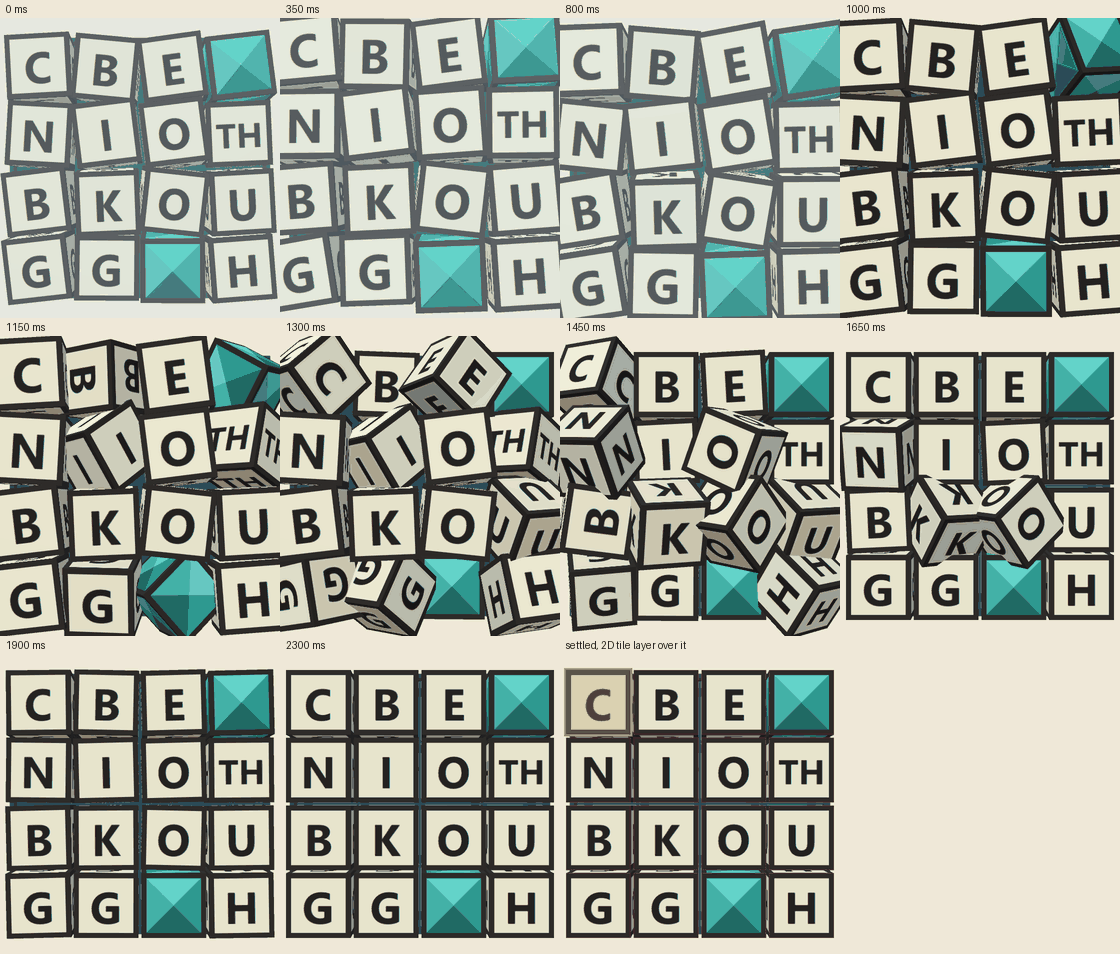
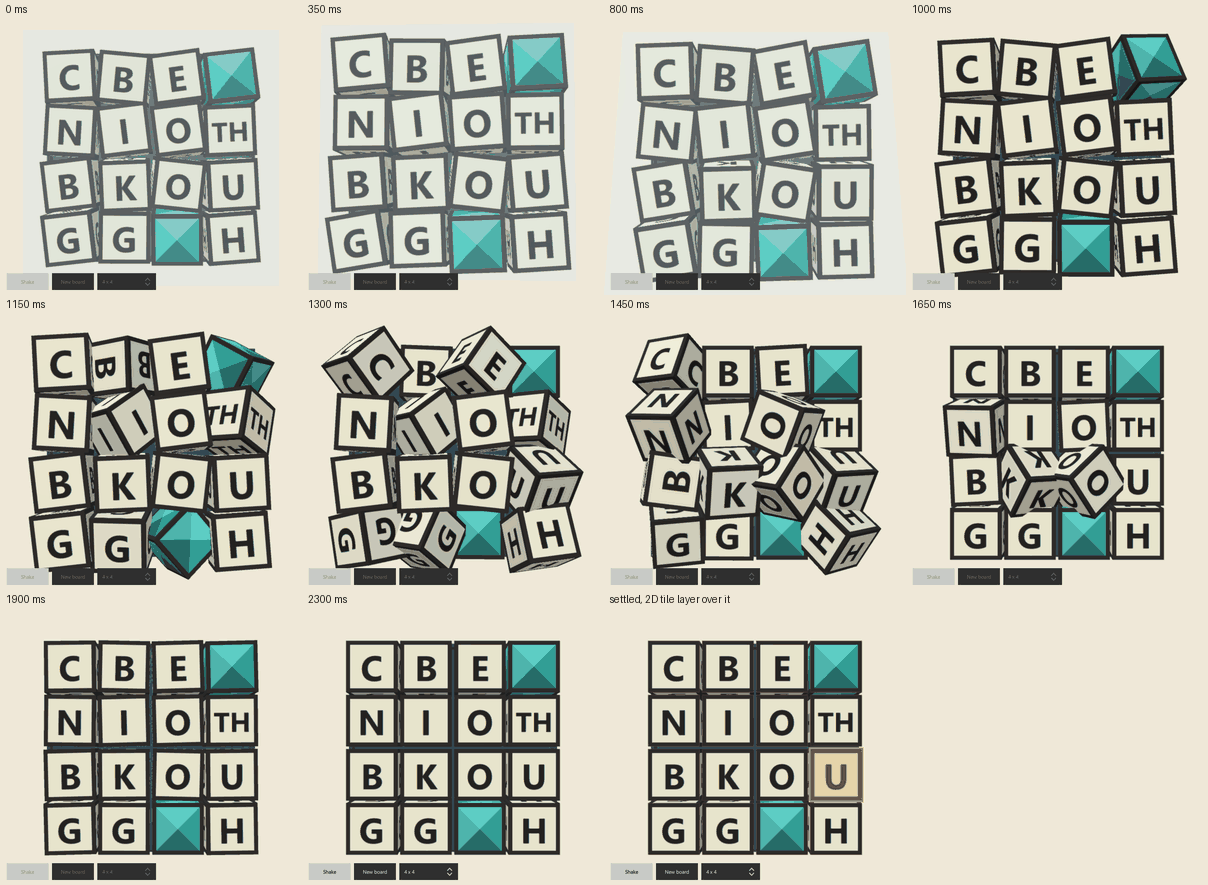
Let the board scene draw past its item, and save every frame for a video
The scene's item stays the board's area and boardRect stays by the rule, but
the view now extends half a tile past it on every side (overdraw), so a die
that tumbles at the edge and the tipping rim are no longer cut off. The
harness leaves room above the scene for it.

--frames <fps>, with --auto --shots, saves a frame of the seeked script every
1/fps s for 2.4 s, which ffmpeg turns into a video. The stills in the page are
retaken at 720 wide so the overdraw is in them, and the page records the
change to the seam and a run-to-run difference in the machine's present
cadence that is not the scene's.

diff --git a/src/app/prototype/shake/qml/BoardScene.qml b/src/app/prototype/shake/qml/BoardScene.qml
@@ -14,7 +14,8 @@ import "ShakeScript.js" as Script
 //
 //   in    play(board, seed), show(board), reducedMotion, agitation, tilt
 //   out   settled(), landed(index, pitch), rattled(), busy, and the geometry the
-//         2D layer over it lays out by: boardRect, tileSize, tileGap
+//         2D layer over it lays out by: boardRect, tileSize, tileGap, and how
+//         far past its item the scene draws: overdraw
 //
 // board is { rows, columns, tiles }, tiles row-major, one string a tile.
 //
@@ -58,6 +59,11 @@ Item {
     readonly property real tileSize: tile
     readonly property real tileGap: gap
     readonly property rect boardRect: Qt.rect((width - spanX) / 2, (height - spanY) / 2, spanX, spanY)
+    // How far past this item's edges the scene draws, on every side: a die that
+    // tumbles at the edge of the board, and the box's rim as it tips, are not
+    // cut off. The item is still the board's area and boardRect is still by the
+    // rule; the application only has to leave the item unclipped (no `clip`).
+    readonly property real overdraw: tile * 0.5
 
     // Plays the shake, the lid and the drop for a board. The dice are in the
     // box before the first frame, and `settled` follows the last of them.
@@ -268,17 +274,21 @@ Item {
     }
 
     // The distance at which, upright, one scene unit is one pixel on the top
-    // of the dice, and the field of view that gives. While the camera leans it
-    // also stands a little back (and comes in as it comes upright), so a board
-    // that fills its square upright is not cut off by the lean.
+    // of the dice, and the field of view that gives, for the view, which is the
+    // item and its overdraw. While the camera leans it also stands a little back
+    // (and comes in as it comes upright), so a board that fills its square
+    // upright is not cut off by the lean.
     readonly property real viewDistance: cameraDistance * Math.max(spanX, spanY)
-    readonly property real fieldOfView: 2 * Math.atan(height / 2 / viewDistance) * 180 / Math.PI
+    readonly property real fieldOfView: 2 * Math.atan((height + 2 * overdraw) / 2 / viewDistance) * 180 / Math.PI
     readonly property real standBack: 1 + 0.3 * (lean > 0 ? Math.min(1, leanNow / lean) : 0)
 
     View3D {
         id: view
 
-        anchors.fill: parent
+        x: -root.overdraw
+        y: -root.overdraw
+        width: root.width + 2 * root.overdraw
+        height: root.height + 2 * root.overdraw
         camera: camera
 
         environment: SceneEnvironment {

diff --git a/src/app/prototype/shake/qml/ShakeWindow.qml b/src/app/prototype/shake/qml/ShakeWindow.qml
@@ -16,6 +16,7 @@ ApplicationWindow {
     required property bool shotsOnly
     required property bool digestOnly
     required property int startBoard
+    required property int framesPerSecond
     required property string outDir
     required property string probeMode
     required property real leanDegrees
@@ -199,7 +200,9 @@ ApplicationWindow {
         anchors.left: parent.left
         anchors.right: parent.right
         anchors.top: parent.top
-        height: parent.height * 2 / 3
+        // The scene draws past its item by its overdraw; leave room above it.
+        anchors.topMargin: window.scene ? window.scene.overdraw : 0
+        height: parent.height * 2 / 3 - anchors.topMargin
 
         DragHandler {
             id: drag
@@ -524,7 +527,18 @@ ApplicationWindow {
     // Screenshots through one play, taken by seeking the script to fixed
     // times, so they are the same on every run and show the stages where they
     // are: the rattle, the lid, the drop in flight, the settle.
-    readonly property var shotTimes: [0, 350, 800, 1000, 1150, 1300, 1450, 1650, 1900, 2300]
+    readonly property var shotTimes: {
+        if (framesPerSecond <= 0) {
+            return [0, 350, 800, 1000, 1150, 1300, 1450, 1650, 1900, 2300];
+        }
+        // Every frame of the first 2.4 s: the shake's minimum, the lid, the
+        // drop and the settle, and a little of the board at rest.
+        const times = [];
+        for (let t = 0; t <= 2400; t += 1000 / framesPerSecond) {
+            times.push(Math.round(t));
+        }
+        return times;
+    }
     property int shotIndex: 0
 
     function takeShots() {
@@ -537,7 +551,7 @@ ApplicationWindow {
     Timer {
         id: shotTimer
 
-        interval: 120
+        interval: window.framesPerSecond > 0 ? 40 : 120
         onTriggered: {
             if (window.shotIndex >= window.shotTimes.length) {
                 window.showTiles = true;
@@ -554,9 +568,9 @@ ApplicationWindow {
     Timer {
         id: grabTimer
 
-        interval: 120
+        interval: window.framesPerSecond > 0 ? 40 : 120
         onTriggered: {
-            const name = "shot-" + String(window.shotIndex).padStart(2, "0") + "-" + window.shotTimes[window.shotIndex] + "ms.png";
+            const name = "shot-" + String(window.shotIndex).padStart(4, "0") + "-" + window.shotTimes[window.shotIndex] + "ms.png";
             stats.grab(window.outDir + "/" + name);
             window.shotIndex += 1;
             shotTimer.restart();

diff --git a/src/app/prototype/shake/main.cpp b/src/app/prototype/shake/main.cpp
@@ -41,6 +41,10 @@ int main(int argc, char* argv[]) {
     const QCommandLineOption shotsOption(
         QStringLiteral("shots"),
         QStringLiteral("With --auto: save screenshots through one shake instead of timing."));
+    const QCommandLineOption framesOption(
+        QStringLiteral("frames"),
+        QStringLiteral("With --auto --shots: save a frame every 1/fps s for 2.4 s, for a video."),
+        QStringLiteral("fps"), QStringLiteral("0"));
     const QCommandLineOption boardOption(QStringLiteral("board"),
                                          QStringLiteral("Board size: 3 or 4."),
                                          QStringLiteral("size"), QStringLiteral("4"));
@@ -56,7 +60,7 @@ int main(int argc, char* argv[]) {
                                         QStringLiteral("Window size, WxH, in logical pixels."),
                                         QStringLiteral("WxH"), QStringLiteral("560x900"));
     parser.addOptions({autoOption, outOption, probeOption, leanOption, runsOption, shotsOption,
-                       digestOption, boardOption, warmOption, sizeOption});
+                       digestOption, framesOption, boardOption, warmOption, sizeOption});
     parser.process(application);
 
     const QStringList size = parser.value(sizeOption).split(QLatin1Char('x'));
@@ -64,6 +68,7 @@ int main(int argc, char* argv[]) {
     initial.insert(QStringLiteral("autoRun"), parser.isSet(autoOption));
     initial.insert(QStringLiteral("shotsOnly"), parser.isSet(shotsOption));
     initial.insert(QStringLiteral("digestOnly"), parser.isSet(digestOption));
+    initial.insert(QStringLiteral("framesPerSecond"), parser.value(framesOption).toInt());
     initial.insert(QStringLiteral("startBoard"), parser.value(boardOption).toInt() == 3 ? 3 : 4);
     initial.insert(QStringLiteral("outDir"), parser.value(outOption));
     initial.insert(QStringLiteral("probeMode"), parser.value(probeOption));

diff --git a/docs/design/shake-prototype.md b/docs/design/shake-prototype.md
@@ -54,6 +54,7 @@ jewel.
 | `landed(index, pitch)` | signal | A die has hit the floor: its place in the board, and a pitch for its click |
 | `rattled()` | signal | The box rattles, at most 8 a second, for the haptic tap |
 | `busy`, `rows`, `columns`, `tileSize`, `tileGap`, `boardRect` | read-only | The geometry by [the rule](board.md#the-rule), for the 2D layer that traces over the scene |
+| `overdraw` | read-only | How far past its item the scene draws, on every side (half a tile), so a die tumbling at the edge and the tipping rim are not cut off. The item is still the board's area; the application must not `clip` it |
 
 `lean`, `probeMode`, `cameraDistance` and `warmUp` are settings of the 3D
 implementation and are not part of the seam. `seek(board, seed, ms)` and
@@ -98,6 +99,7 @@ $env:QT_ASSUME_STDERR_HAS_CONSOLE = 1      # the program is a GUI program; this 
 build\windows-msvc-release\bin\ShakePrototype.exe                       # to play with
 build\windows-msvc-release\bin\ShakePrototype.exe --auto --runs 6 --out results   # timing
 build\windows-msvc-release\bin\ShakePrototype.exe --auto --shots --out shots      # stills
+build\windows-msvc-release\bin\ShakePrototype.exe --auto --shots --frames 30 --size 720x900 --out frames   # every frame, for a video
 build\windows-msvc-release\bin\ShakePrototype.exe --auto --digest --out digest    # replay check
 ```
 
@@ -138,6 +140,17 @@ It moves about 40 ms into the creation frame above. The 47.7 ms without it is
 the only frame on Direct3D 11, after the scene was made, over the
 [33 ms budget](performance.md#budgets).
 
+### Two cadences
+
+The same binary, run twice in a row on the same machine, presented at two
+different rhythms: intervals of 16.7 ms and a press-to-first-frame of about
+16 ms, and then intervals of 11 to 12 ms and a press-to-first-frame of 53 to
+65 ms, with the same render-thread time. It happened with the overdraw off and
+on, so it is not the scene. The suspect is which of the machine's displays (it
+has a 100 Hz mode) the window opened on; it was not investigated. The tables
+below are from runs in the 16.7 ms rhythm, and the 18 ms first-shake figure
+with the warm-up is from there; the 48 ms without it is in the same one.
+
 ### During the shake and the drop
 
 All the plays of three processes, each process's first play left out
@@ -154,7 +167,9 @@ All the plays of three processes, each process's first play left out
 
 On this machine the scene is far inside its frame: no frame was late, the
 render thread spends about half a millisecond on a frame, and the longest
-interval was 20 ms. That says nothing about a tablet's GPU, which does the work
+interval was 20 ms. (Drawing past the item, below, makes the view a tenth
+bigger each way and added about 0.1 ms to the render thread's mean, from two
+more processes of six plays each; the intervals did not change.) That says nothing about a tablet's GPU, which does the work
 the render thread only submits. The two things to measure on the device are the
 GPU time of a frame with 16 dice and MSAA, and the first-frame cost above.
 
@@ -253,18 +268,18 @@ running it.
   every face, so a tumbling die is always a letter and never a blank. The camera
   coming upright over the fall is what shows the height of the fall in the
   stills.
-- **Straight down is worse than leaning.** With `--lean 0` the dice, at the
-  height of the box, are about a tenth bigger on the screen than a tile, which
-  is more than the 12 dp inset, so the rattle and the start of the drop are
-  cropped by the item's edge, and the box does not read as a box: ![The same shake with the camera straight
-  down](shake-prototype-filmstrip-straight-down.png)
+- **Straight down is flatter than leaning.** With `--lean 0` the box has no
+  rim or depth to see, and the rattle is a grid shaking under a pane. Before
+  the scene drew past its item it was also cropped: the dice at the height of
+  the box are about a tenth bigger on the screen than a tile, which is more
+  than the 12 dp inset. It is not cropped now:
+  ![The same shake with the camera straight down](shake-prototype-filmstrip-straight-down.png)
 - **What is wrong with it.** There is no collision, so a falling die cuts
-  through a landed neighbour for a few frames (1450 ms, the O through the K);
-  the scene's item is the board's area, so a die that tumbles at the edge is
-  cut off by the item's bounds (1300 and 1450 ms, the left edge); and the dead
-  jewel is a cube with four facets painted on its faces, which looks wrong from
-  the side. The first two want the scene's item to be larger than `boardRect`;
-  the third wants a mesh, if D2 goes 3D.
+  through a landed neighbour for a few frames (1450 ms, the O through the K),
+  and the dead jewel is a cube with four facets painted on its faces, which
+  looks wrong from the side and wants a mesh if D2 goes 3D. The first pictures
+  also showed a tumbling die cut off at the item's edge; that is the overdraw
+  below.
 
 ## If a 2D implementation is swapped in
 
@@ -298,17 +313,21 @@ the 3D-only files (`Die.qml`, `FaceAtlas.qml`, the probe). It loses the lit
 solid and the true tumble about the horizontal axes; the stages and their
 durations are the same.
 
-### What the seam should change
+### What changed in the seam
 
-The prototype suggests two changes to the seam before the application is built
-on it, both cheap now:
+The prototype suggested two changes to the seam before the application is
+built on it:
 
-- The scene's item should be allowed to be larger than the board, with
-  `boardRect` saying where the board is in it, so that a tumbling die at the
-  edge and the box's rim are not cut off.
-- The first board's `show()` is where the one-time costs go, so the
-  application should create the scene at start-up with the first board and not
-  on the first press of Shake. The interface already allows it.
+- **Done: the scene draws past its item.** `overdraw` (half a tile) is how far,
+  and the view is that much bigger on every side. The item is still the
+  board's area and `boardRect` is still by the rule, so the layout is not
+  changed; the application must leave the item unclipped, and the window needs
+  room around the board (the harness gives it a margin above, and the stills
+  and the video are 720 wide). 3D only: a 2D scene may report any `overdraw`,
+  including 0.
+- **A rule for the application, no code:** the first board's `show()` is where
+  the one-time costs go, so the application creates the scene at start-up with
+  the first board and not on the first press of Shake.
 
 ## What was not measured
 
